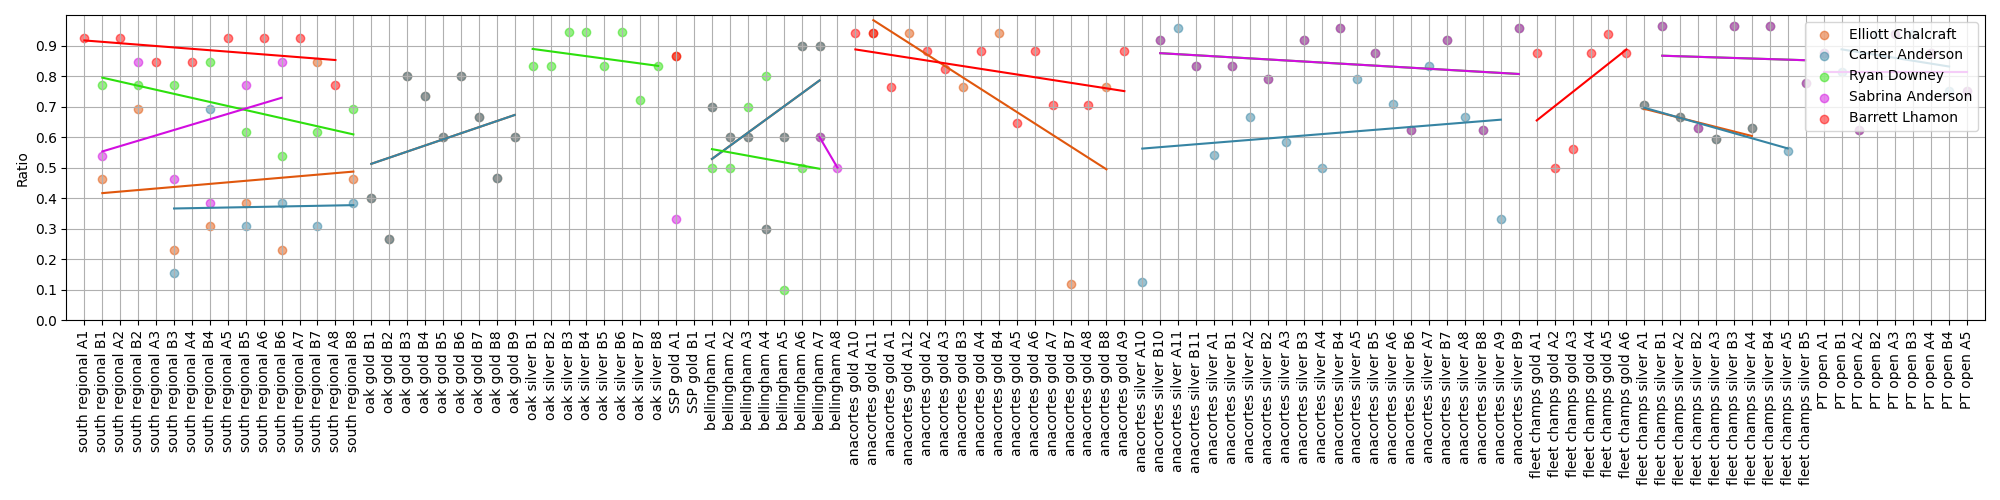
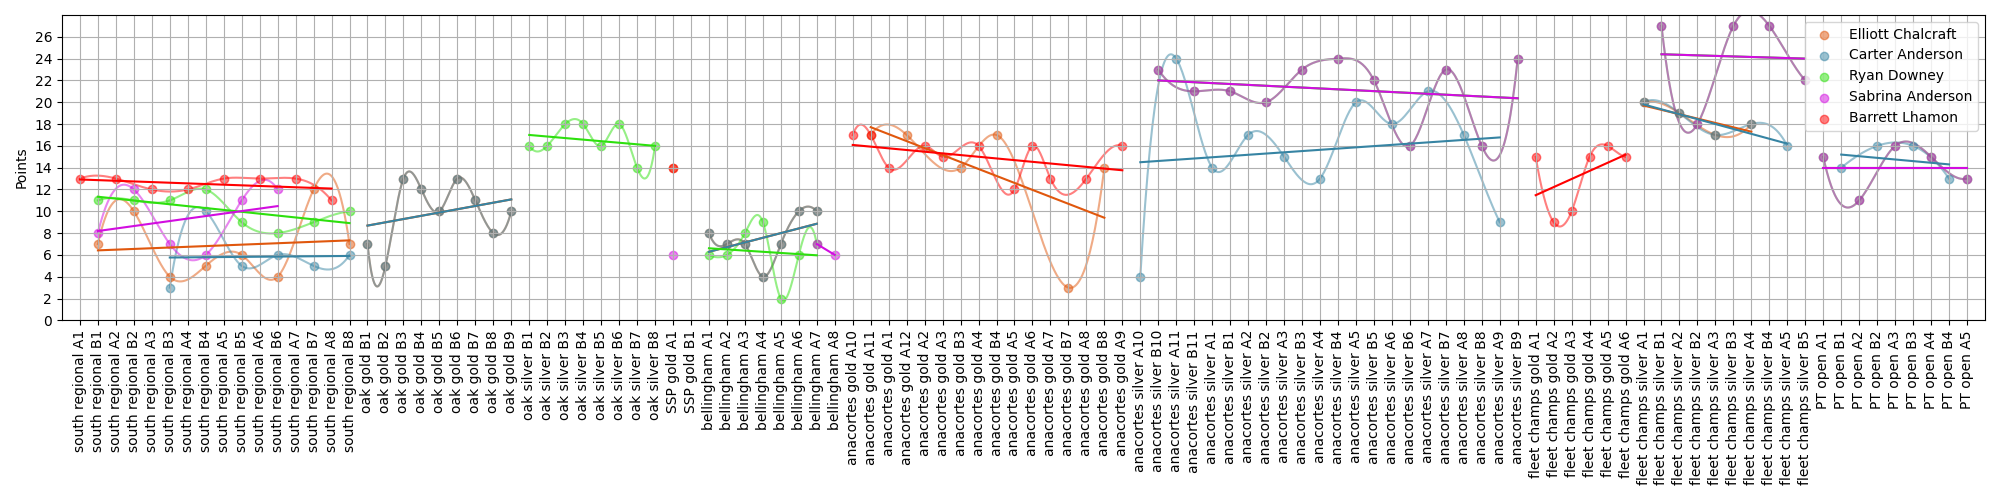
ape

diff --git a/scrapeGraph.py b/scrapeGraph.py
@@ -18,7 +18,7 @@ regattas = {"south regional": "s22/south-regional-nwisa",  "oak gold": "s22/isla
 names = {"Elliott Chalcraft": "#e0570d", 'Carter Anderson': "#3684a3",
          "Ryan Downey": "#2de00d", "Sabrina Anderson": "#d20de0", "Barrett Lhamon": "#f00"}
 # Raw Points Ratio
-Type = "Ratio"
+Type = "Points"
 people = []
 
 
